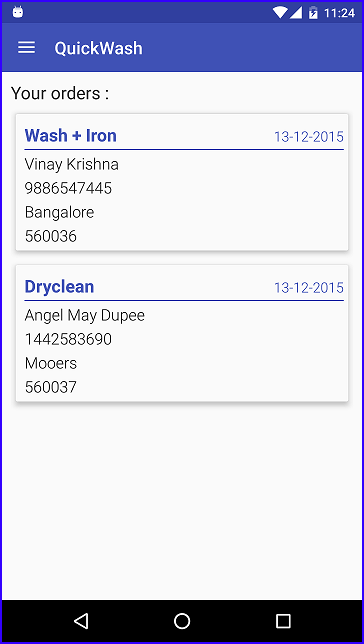
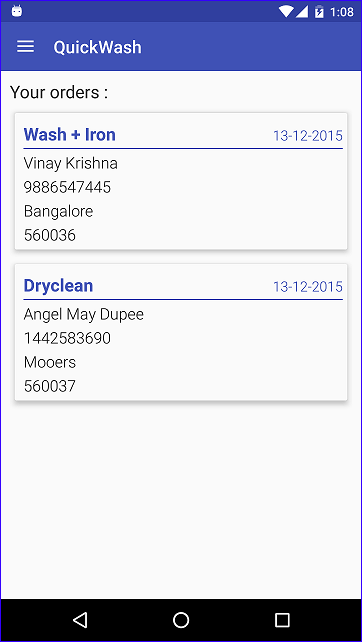
loading homepage after order confirmation

diff --git a/app/src/main/java/in/vinkrish/quickwash/PlaceOrderActivity.java b/app/src/main/java/in/vinkrish/quickwash/PlaceOrderActivity.java
@@ -3,6 +3,7 @@ package in.vinkrish.quickwash;
 import android.app.ProgressDialog;
 import android.content.ContentValues;
 import android.content.Context;
+import android.content.Intent;
 import android.net.ConnectivityManager;
 import android.net.NetworkInfo;
 import android.os.AsyncTask;
@@ -285,7 +286,10 @@ public class PlaceOrderActivity extends AppCompatActivity {
         protected void onPostExecute(Void v) {
             super.onPostExecute(v);
             QuickWashCRUD.inertOrder(PlaceOrderActivity.this, createOrderValues());
+            showSnackBar("Confirmed, we will contact you soon");
             pDialog.dismiss();
+            Intent intent = new Intent(PlaceOrderActivity.this, in.vinkrish.quickwash.HomeActivity.class);
+            startActivity(intent);
         }
 
     }
